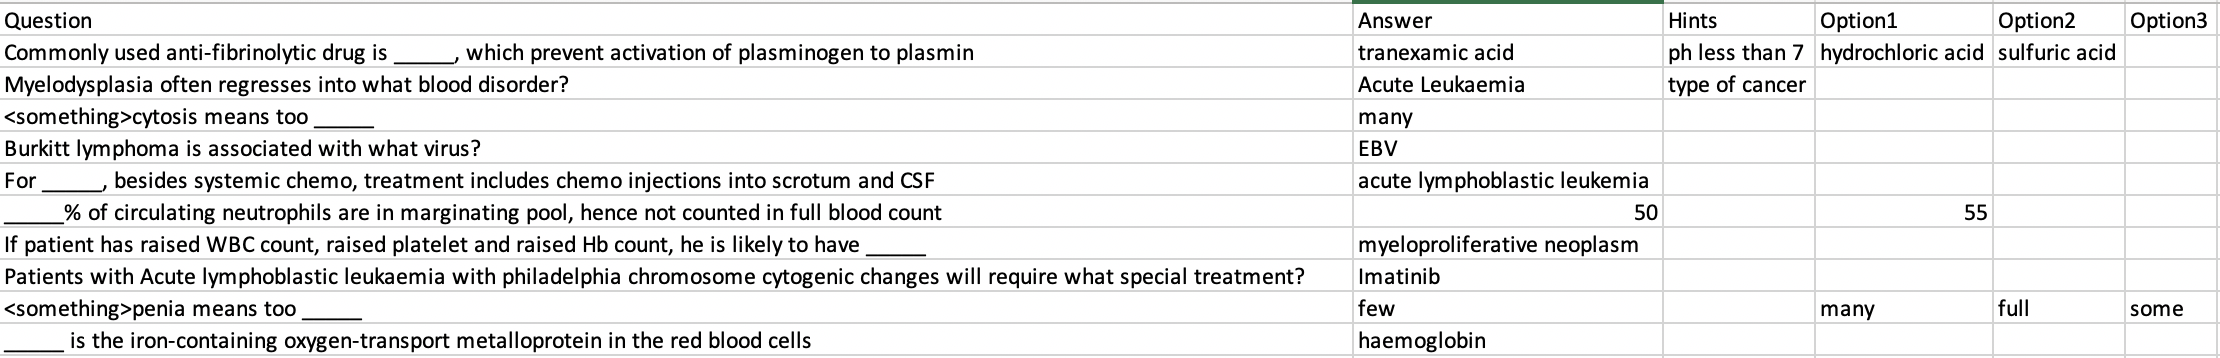
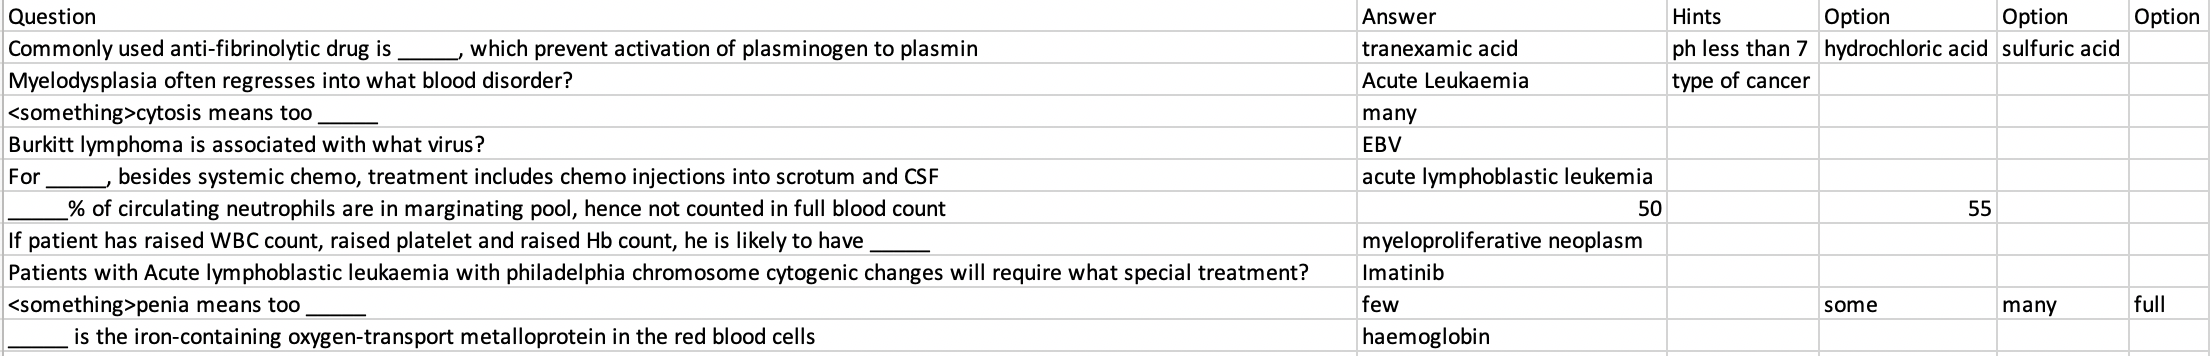
update blood csv test

Changed region(s): [[0.0, 0.0, 1.0, 1.0]]

diff --git a/src/test/java/seedu/knowitall/testutil/SampleBloodCards.java b/src/test/java/seedu/knowitall/testutil/SampleBloodCards.java
@@ -15,6 +15,7 @@ public class SampleBloodCards {
     public static final Card CARD_1 = new CardBuilder().withQuestion("Commonly used anti-fibrinolytic drug is _____, "
             + "which prevent activation of plasminogen to plasmin").withAnswer("tranexamic acid")
             .withHint("ph less than 7")
+            .withOptions("hydrochloric acid", "sulfuric acid")
             .withScore("0/0").build();
 
     public static final Card CARD_2 = new CardBuilder().withQuestion("Myelodysplasia often regresses "
@@ -61,7 +62,7 @@ public class SampleBloodCards {
     public static final Card CARD_9 = new CardBuilder().withQuestion("<something>penia means too _____")
             .withAnswer("few")
             .withScore("0/0")
-            .withOptions("many")
+            .withOptions("some", "many", "full")
             .build();
 
 

diff --git a/src/main/java/seedu/knowitall/storage/csvmanager/CsvManager.java b/src/main/java/seedu/knowitall/storage/csvmanager/CsvManager.java
@@ -165,7 +165,9 @@ public class CsvManager implements CsvCommands {
             for (Card card : cardList) {
                 String cardRepresentation = getCardString(card);
                 fileWriter.append(cardRepresentation);
-                fileWriter.append(NEW_LINE_SEPARATOR);
+                if (card != cardList.get(cardList.size() - 1)) {
+                    fileWriter.append(NEW_LINE_SEPARATOR);
+                }
             }
             fileWriter.flush();
             fileWriter.close();
